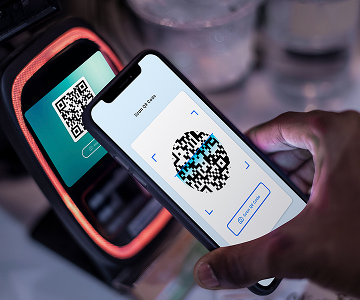
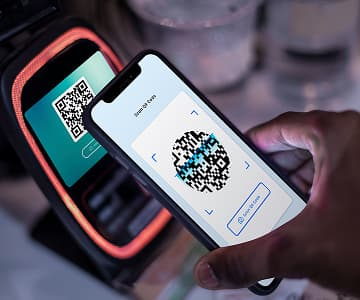
additional squooshe images, edited link to google fonts, reworked css file

diff --git a/css/style.css b/css/style.css
@@ -1,3 +1,4 @@
+/* =======Base sytles======= */
 body {
   font-family: 'Roboto', sans-serif;
   font-weight: 400;
@@ -7,23 +8,11 @@ body {
   color: #434455;
   background-color: #fff;
 }
-a {
-  font-family: 'Roboto', sans-serif;
-  font-size: 16px;
-  line-height: 1.5;
-  letter-spacing: 0.02em;
-  text-decoration: none;
-}
+
 ul {
   list-style: none;
 }
-.navigation-link:hover,
-.navigation-link:focus,
-.contact-info-link:hover,
-.contact-info-link:focus {
-  color: #404bbf;
-}
-
+/* ======= Logo ======= */
 .logo {
   font-family: 'Raleway', sans-serif;
   font-weight: 700;
@@ -32,12 +21,31 @@ ul {
   letter-spacing: 0.03em;
   text-transform: uppercase;
   color: #4d5ae5;
+  text-decoration: none;
 }
+
 .logo-studio-top {
   color: #2e2f42;
 }
 .logo-studio-bottom {
   color: #f4f4fd;
+}
+
+/* =======Header======= */
+.navigation-link:hover,
+.navigation-link:focus,
+.contact-info-link:hover,
+.contact-info-link:focus {
+  color: #404bbf;
+}
+
+.navigation-link,
+.contact-info-link {
+  font-family: 'Roboto', sans-serif;
+  font-size: 16px;
+  line-height: 1.5;
+  letter-spacing: 0.02em;
+  text-decoration: none;
 }
 
 .navigation-link {
@@ -53,6 +61,33 @@ ul {
   color: #434455;
 }
 
+/* =======Section titles (h2)======= */
+.mission-title,
+.team-title,
+.portfolio-title {
+  font-weight: 700;
+  font-size: 36px;
+  line-height: 1.11;
+  letter-spacing: 0.02em;
+  text-align: center;
+  color: #2e2f42;
+}
+.team-title,
+.portfolio-title {
+  text-transform: capitalize;
+}
+/* =======Section main objects (h3)======= */
+.mission-item,
+.team-member,
+.portfolio-case {
+  font-weight: 500;
+  font-size: 20px;
+  line-height: 1.2;
+  letter-spacing: 0.02em;
+  color: #2e2f42;
+}
+
+/* =======Hero======= */
 .hero {
   background-color: #2e2f42;
   line-height: 1.07;
@@ -78,15 +113,9 @@ ul {
   background-color: #404bbf;
 }
 
-.mission-title,
-.team-title,
-.portfolio-title {
-  font-weight: 700;
-  font-size: 36px;
-  line-height: 1.11;
-  letter-spacing: 0.02em;
-  text-align: center;
-  color: #2e2f42;
+/* =======Section Team======= */
+.team {
+  background: #f4f4fd;
 }
 .team-list-item {
   background-color: #fff;
@@ -94,25 +123,8 @@ ul {
 .team-member-role {
   font-size: 16px;
 }
-.team-title,
-.portfolio-title {
-  text-transform: capitalize;
-}
 
-.mission-item,
-.team-member,
-.portfolio-case {
-  font-weight: 500;
-  font-size: 20px;
-  line-height: 1.2;
-  letter-spacing: 0.02em;
-  color: #2e2f42;
-}
-
-.team {
-  background: #f4f4fd;
-}
-
+/* =======Footer======= */
 .bottom-content {
   background: #2e2f42;
 }

diff --git a/index.html b/index.html
@@ -4,18 +4,11 @@
     <meta http-equiv="x-ua-compatible" content="ie=edge" />
     <meta charset="UTF-8" />
     <title>WEBSTUDIO MAIN PAGE</title>
-    <!-- Raleway -->
+    <!-- Google Fonts Roboto, Raleway-->
     <link rel="preconnect" href="https://fonts.googleapis.com" />
     <link rel="preconnect" href="https://fonts.gstatic.com" crossorigin />
     <link
-      href="https://fonts.googleapis.com/css2?family=Poppins:ital,wght@0,100;0,200;0,300;0,400;0,500;0,600;0,700;0,800;0,900;1,100;1,200;1,300;1,400;1,500;1,600;1,700;1,800;1,900&family=Raleway:ital,wght@0,100..900;1,100..900&display=swap"
-      rel="stylesheet"
-    />
-    <!-- Roboto-->
-    <link rel="preconnect" href="https://fonts.googleapis.com" />
-    <link rel="preconnect" href="https://fonts.gstatic.com" crossorigin />
-    <link
-      href="https://fonts.googleapis.com/css2?family=Poppins:ital,wght@0,100;0,200;0,300;0,400;0,500;0,600;0,700;0,800;0,900;1,100;1,200;1,300;1,400;1,500;1,600;1,700;1,800;1,900&family=Raleway:ital,wght@0,100..900;1,100..900&family=Roboto:ital,wght@0,100..900;1,100..900&display=swap"
+      href="https://fonts.googleapis.com/css2?family=Raleway:wght@700&family=Roboto:wght@400;500;700&display=swap"
       rel="stylesheet"
     />
     <!-- Normalize CSS-->
